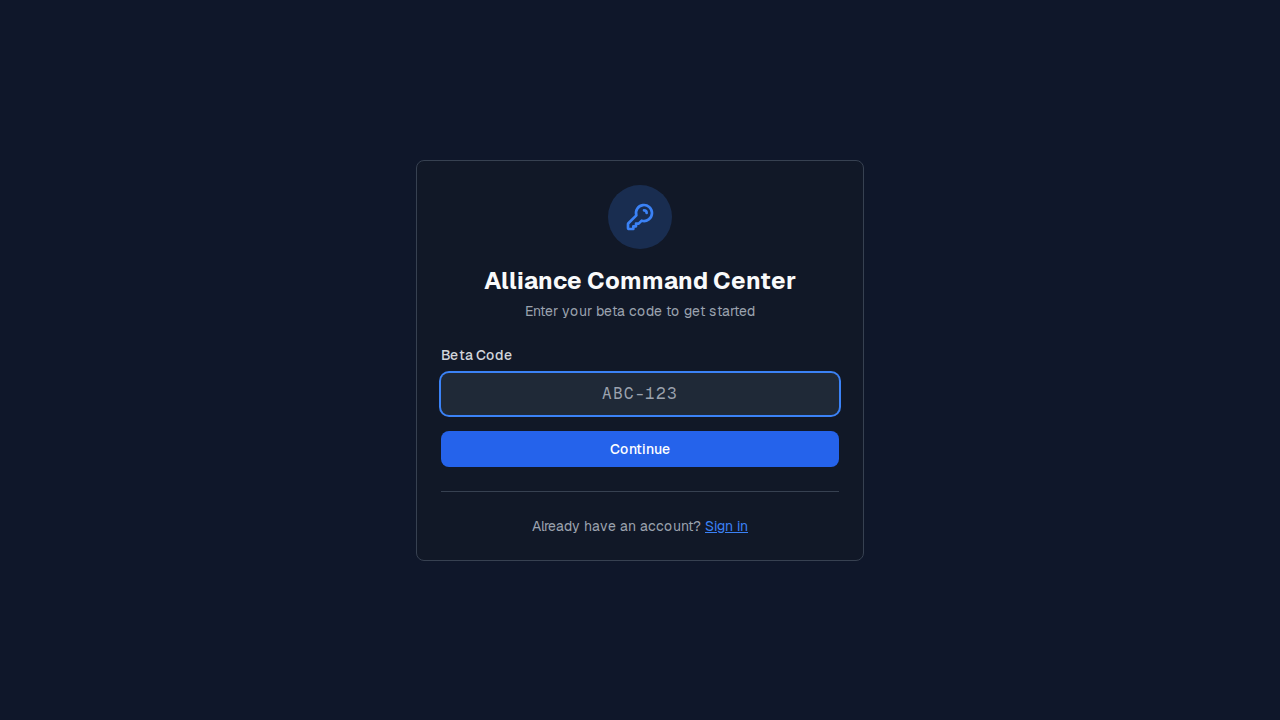
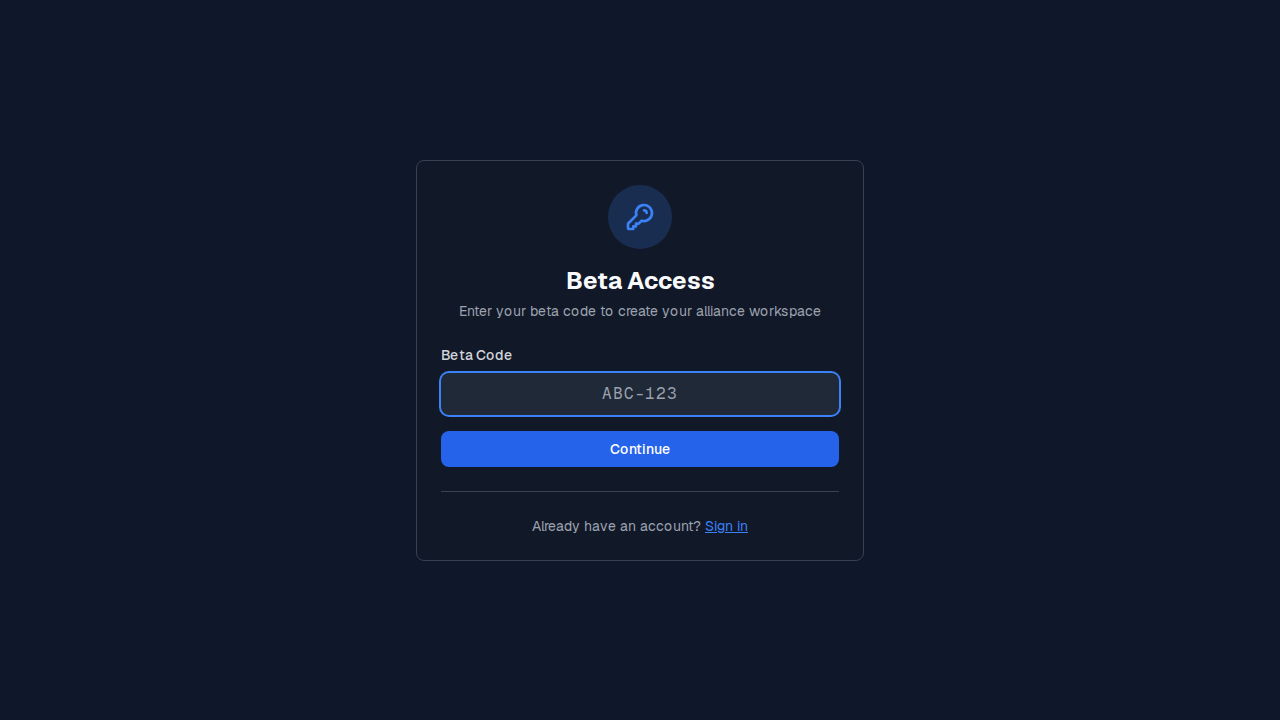
chore: Update visual regression baselines

Changed region(s): [[0.3438, 0.3667, 0.6562, 0.4583]]

diff --git a/app/src/lib/features.ts b/app/src/lib/features.ts
@@ -13,6 +13,8 @@
  *   FEATURE_PLATFORM_CONSOLE=true
  */
 
+import type { ReactNode } from "react";
+
 export const features = {
   /**
    * Platform Operations Console
@@ -67,8 +69,8 @@ export function FeatureFlag({
   fallback = null,
 }: {
   feature: FeatureName;
-  children: React.ReactNode;
-  fallback?: React.ReactNode;
-}): React.ReactNode {
+  children: ReactNode;
+  fallback?: ReactNode;
+}): ReactNode {
   return isFeatureEnabled(feature) ? children : fallback;
 }